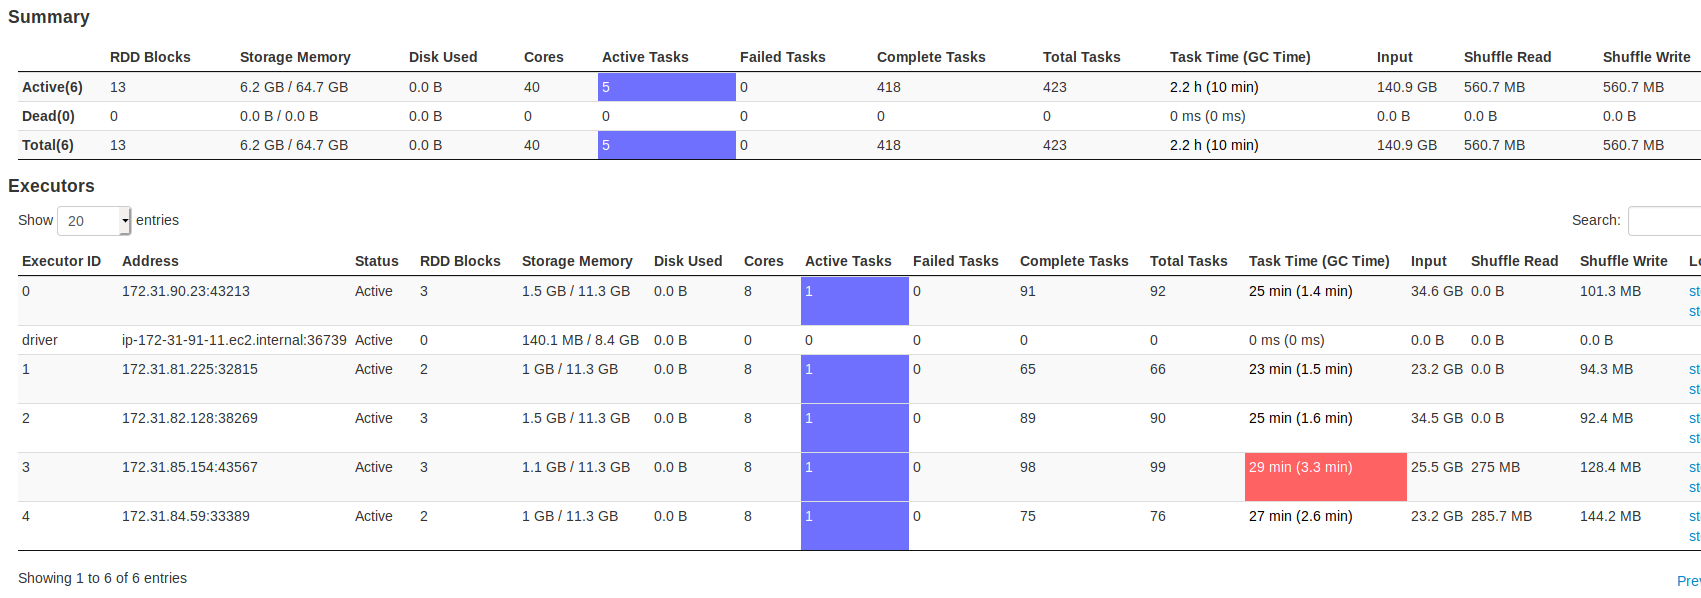
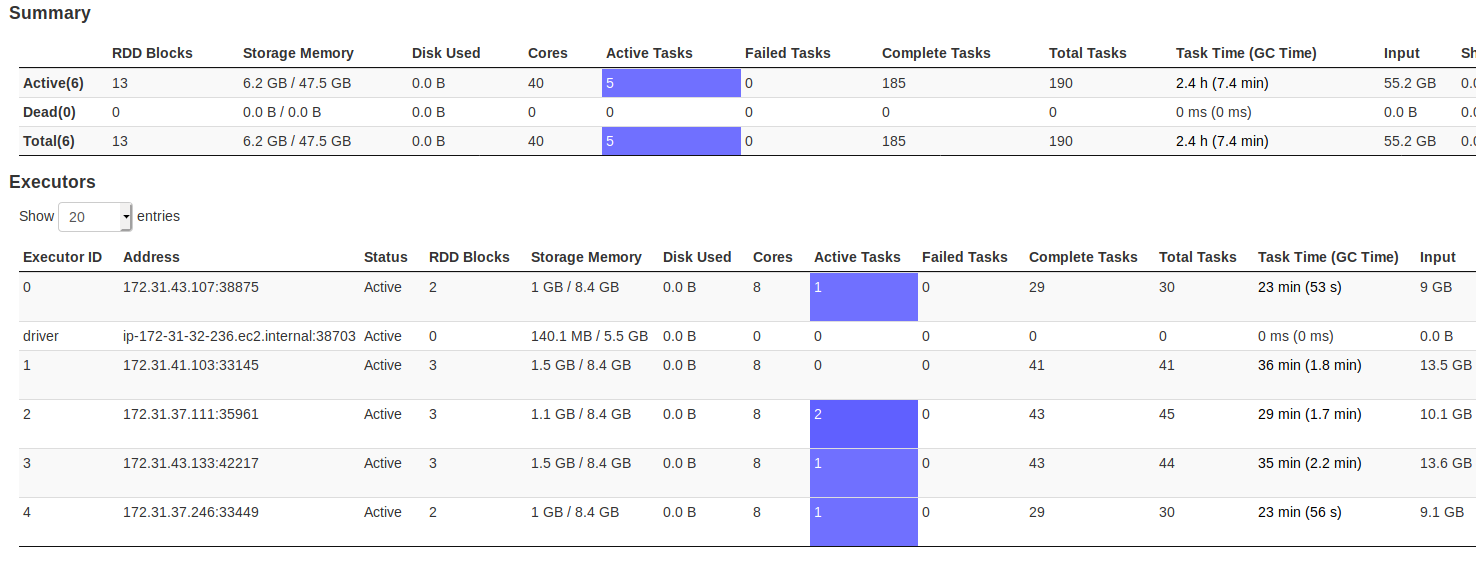
README

diff --git a/README.md b/README.md
@@ -15,7 +15,17 @@ It is possible to filter categories and sub-categories and than visualize the re
 
 
 
-## Getting Started
+### Dependencies
+
+- Java : 1.8.
+- Scala : 2.11.12
+- Spark : 2.3.4
+
+- sbt : 1.1.6
+
+  
+
+### Getting Started
 
 - download the [Wikipedia edit history](https://snap.stanford.edu/data/wiki-meta.html) 
 - download the [ip2Location LITE database](https://lite.ip2location.com/database/ip-country-region-city-latitude-longitude-zipcode)
@@ -24,6 +34,10 @@ It is possible to filter categories and sub-categories and than visualize the re
 ```bash
 bzcat /your_path/enwiki-20080103.main.bz2 | python3 ./python/enwiki2csv.py | python3 ./python/ip2integer.py | bzip2 > /your_path/enwiki-longIpOnly.bz2
 ```
+
+Output:
+
+![](./imgs/res1.png)
 
 
 
@@ -50,9 +64,41 @@ options:
 
 
 
+### Deploy on Amazon AWS
+
+I used AWS Educate services including Amazon S3 buckets to store datasets (also for the .jar transfer because it's extremely faster than copy from local). Students can retrieve credentials in the Vocareum page (Account Details), before opening the AWS console. Create the file *~/aws/.credentials* and copy the credentials on it. The session will be interrupted after 2:30, but the running machine will continue to go and consume credits. Re-login to Vocareum to start a new session. Create a new *pair key* from the AWS Console and place the .pem file on the deploy folder.
+
+To start and manage nodes I used the command line tool [flintrock](https://github.com/nchammas/flintrock).  In the [deploy folder](https://github.com/CecchiLinux/wikipedia-geoEdits/tree/master/deploy) there is the *deploy.sh* command used to:
+
+- install Java and Spark on each node
+- transfer the aws credential on each node
+- transfer the datasets on each node
+
+Create the *conf.yaml* usign the Flintrock command line. You have to specify the region (us-east-1 is the only available for students), the identity-file (.pem path), the OS (ami) and the number of slaves.
+
+Flintrock may fail with this message: 
+
+```bash
+SSH protocol error. Possible causes include using the wrong key file or username.
+Do you want to terminate the 6 instances created by this operation? [Y/n]: Y
+Terminating instances...
+```
+
+Type "Y" and re-try, it usually works.
+
+SSH the master node (AWS console, go to "running instances", right-click on the master node, "connect") and run a command like this:
+
+```bash
+spark/bin/spark-submit --master spark://[private_ip] --conf spark.driver.maxResultSize=3g  --driver-memory 10G --executor-memory 15G --class "Main" --deploy-mode client wiki_geo_edits.jar -d /home/ec2-user -w italian -k 15 -i 10 -m spark://[private_ip]:7077
+```
+
+You can retrieve the private IP of the master node in the master node info (AWS console, go to "running instances", click on the master node). You can view the Spark UI console going to http://master-node-public-ip:4040.
+
+
+
 ## Acknowledgments
 
-Thanks to [Chimpler](https://github.com/chimpler/tweet-heatmap) for the map print.
+Thanks to [Chimpler](https://github.com/chimpler/tweet-heatmap) for the print of coordinates on the map.
 
 
 
@@ -77,22 +123,13 @@ The software consists of several parts:
 
 #### Phase 1 - IP addresses resolution [complete parallelism]
 
-The goal is to get the association of edits with the location (coordinates) once and for all. The "Parsed Wikipedia edit history" consists in 116.590.856 contributions (8GB text file). Each anonymous contribution has an IP address. The software convert them into integers and look for the nearest location in the IP2LOCATION database. 
+The goal is to get the association of edits with the location (coordinates) once and for all. The "Parsed Wikipedia edit history" consists in 116.590.856 contributions (8GB text file). Each anonymous contribution has an IP address (33.875.047 contributions). The software convert them into integers and look for the nearest location in the IP2LOCATION database.  
 
 To boost the IP resolution the SW exploits the database structure.
 
-```csv
-ip_from,ip_to,latitude,longitude
-"0",16777215","0.000000","0.000000"
-"16777216","16777471","34.052230","-118.243680"
-"16777472","16778239","26.061390","119.306110"
-"16778240","16779263","-37.814000","144.963320"
-"16779264","16781311","23.116670","113.250000"
-"16781312","16785407","35.689506","139.691700"
-"16785408","16793599","23.116670","113.250000"
-"16793600","16797695","34.385280","132.455280"
-...
-```
+<img src="./imgs/resLoc.png" />
+
+
 
 Converting an IP into *Long* we get a value between one of the *ip_form* and *ip_to* pairs. The pairs are ordered and consecutive than we can consider only the ip_from values placing them into an array and use a custom version of the dichotomic search that return the lower bound of the target IP's class instead of a boolean value (the target IP may not be present but still has a class).
 
@@ -157,15 +194,7 @@ val editsWithIpRDD = editsRDD
 
 The phase 1 ends with something like this (categoty#list of Long IPs):
 
-```bash
-Italian_librettists#1363761152||3664136448|3664136448|1383812096
-Italian_computer_scientists#3353255936|3353255936|344651264|344651264|...
-Italian_film_directors#2478590464|2478590464|2478590464|2478590464|2478590464
-Italian-American#1460734720|79237376|1165786624|1207369728|1177731072|1145931776|...
-Italian_football_clubs#1354197760|3259936256|3279468032|1354094080|2306366464|...
-Italian_designers#1372606976
-...
-```
+![](./imgs/res2.png)
 
 
 
@@ -329,28 +358,21 @@ The objectives of this phase are:
 
 
 
-### Deploy
+### Local VS Cloud
 
-I used AWS service to run my program, Amazon S3 bucket as datasets folder (I used it also for the .jar transfer because it's extremely faster than copy from local). To start and manage nodes I used the command line tool [flintrock](https://github.com/nchammas/flintrock).  In the [deploy folder](https://github.com/CecchiLinux/wikipedia-geoEdits/tree/master/deploy) the command used to:
+As I expected in the phase it's easy to appreciate the performance improvement. Including the transfer time of broadcast variables, the run of the IPs resolution using 5 slaves took 20min with respect to 5h of master-only use.
 
-- install Java and Spark on each node
-- transfer the aws credential on each node
-  - place credential on *~/aws/.credentials*
-- transfer the datasets on each node
+To effectively appreciate the performance improvement on the KMeans execution it is necessary to select categories with a particularly high edit number (films, war, ...), or do not select categories at all otherwise each iteration takes about 10s to run and, thanks to the memorized points on nodes, only the new centroids needs to be propagated.
 
-```bash
-./deploy.sh
-```
+![KMeans iterations](./imgs/executionP2.png)
 
-SSH the master node (the conf.yaml file selects 5 slaves) and run a command:
-
-```bash
-spark/bin/spark-submit --master spark://[private_ip] --conf spark.driver.maxResultSize=3g  --driver-memory 5G --executor-memory 15G --class "Main" --deploy-mode client wiki_geo_edits.jar -d /home/ec2-user -w italian -k 15 -i 10 -m spark://[private_ip]:7077
-```
+Fig. KMeans iterations
 
 
 
+![](./imgs/execution.png)
 
+Fig. Spark UI executors visualization
 
 
 
